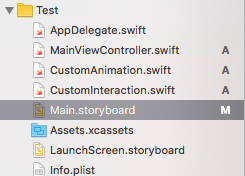
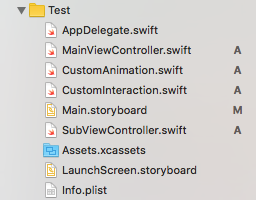
Modified images

diff --git a/_posts/2016-04-14-custom-transitions.md b/_posts/2016-04-14-custom-transitions.md
@@ -342,7 +342,7 @@ This is what your storyboard looks like.
 
 ![Storyboard]({{ ASSET_PATH }}/../images/2016-04-14-custom-transitions.png)
 
-
+![Files]({{ ASSET_PATH }}/../images/2016-04-14-custom-transitions2.png)
 
 
 
